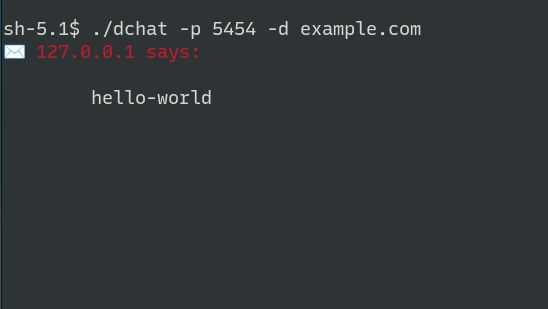
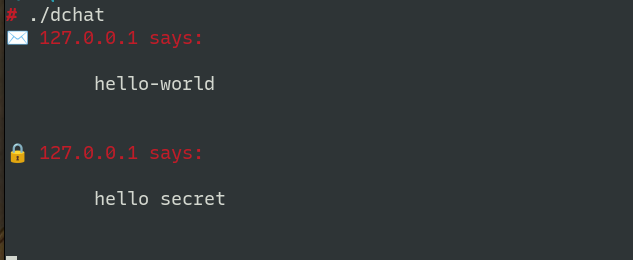
Add support for sending files through txt records. All messages will be xor encrypted

diff --git a/chat/src/txt.rs b/chat/src/txt.rs
@@ -1,0 +1,135 @@
+// This Source Code Form is subject to the terms of the Mozilla Public
+// License, v. 2.0. If a copy of the MPL was not distributed with this
+// file, You can obtain one at https://mozilla.org/MPL/2.0/.
+
+use std::{collections::BTreeMap, path::Path};
+
+use dominion::{DnsHeader, DnsPacket, Flags, Name, ResourceRecord};
+
+use memmap2::Mmap;
+
+const MAX_TXT_SIZE: usize = 255;
+
+#[derive(Debug)]
+pub(crate) struct TxtHandler {
+    files: BTreeMap<String, Mmap>,
+}
+
+impl TxtHandler {
+    pub fn new<I, P>(mapping: I) -> Self
+    where
+        I: Iterator<Item = (String, P)>,
+        P: AsRef<Path>,
+    {
+        use std::fs::File;
+        // TODO: better error handling
+        let files = mapping
+            .map(|(k, p)| {
+                let fd = File::open(p).expect("could not open a file");
+                // SAFETY: Because we copy the bytes from the appropiate part of the file
+                // before we use them a change in the underlying file will not produce UB
+                let v = unsafe { Mmap::map(&fd).expect("could not read the file") };
+                (k, v)
+            })
+            .collect();
+        Self { files }
+    }
+
+    pub fn response<'a>(
+        &self,
+        question: &'a DnsPacket<'a>,
+        filter: &Name<'_>,
+        xor: &Option<crate::Xor>,
+    ) -> DnsPacket<'a> {
+        let id = question.header.id;
+        let name = &question.questions[0].name;
+        if filter.is_subdomain(name) && xor.is_some() {
+            let xor = xor.as_ref().unwrap();
+            let mut labels = name.iter_hierarchy();
+            let label = labels
+                .nth(filter.label_count())
+                .expect("Because it is a subdomain it should have at least one more label");
+
+            let chunk = self.read_chunk(label).map(|l| encrypt(l, xor.key));
+            if let Some(chunk) = chunk {
+                let header = DnsHeader {
+                    id,
+                    flags: flags(),
+                    questions: 1,
+                    answers: 1,
+                    authority: 0,
+                    additional: 0,
+                };
+                DnsPacket {
+                    header,
+                    questions: question.questions.clone(),
+                    answers: vec![answer(name, chunk)],
+                    authority: vec![],
+                    additional: vec![],
+                }
+            } else {
+                super::refused(id)
+            }
+        } else {
+            super::refused(id)
+        }
+    }
+
+    fn read_chunk<'a>(&'a self, key: &str) -> Option<&'a [u8]> {
+        use std::cmp::min;
+        // Key format <fileid>-<position> for example:
+        //     file1-3
+        fn parse_key(key: &str) -> Option<(&str, usize)> {
+            let key_i = key.rsplit_once('-')?;
+            let i = key_i.1.parse().ok()?;
+            Some((key_i.0, i))
+        }
+
+        let (file, i) = parse_key(key)?;
+        let map = self.files.get(file)?;
+        let i = i * MAX_TXT_SIZE / 2;
+        let j = min(map.len(), i + MAX_TXT_SIZE / 2);
+        map.get(i..j)
+    }
+}
+
+fn encrypt(label: &[u8], key: u8) -> String {
+    let out: Vec<u8> = label.iter().map(|b| b ^ key).collect();
+    hex::encode(out)
+}
+
+fn flags() -> Flags {
+    use dominion::*;
+
+    Flags {
+        qr: QueryResponse::Response,
+        opcode: OpCode::Query,
+        aa: AuthoritativeAnswer::Authoritative,
+        tc: TrunCation::NotTruncated,
+        rd: RecursionDesired::NotDesired,
+        ra: RecursionAvailable::NotAvailable,
+        z: Zero::Zero,
+        ad: AuthenticData::NotAuthentic,
+        cd: CheckingDisabled::Disabled,
+        rcode: ResponseCode::NoError,
+    }
+}
+
+fn answer<'a>(name: &Name<'a>, txt: String) -> ResourceRecord<'a> {
+    use dominion::RecordPreamble;
+    let txt_len: u16 = txt
+        .len()
+        .try_into()
+        .expect("TXT message max length is 255 bytes");
+    let preamble = RecordPreamble {
+        name: name.clone(),
+        rrtype: dominion::Type::Txt,
+        class: dominion::Class::IN,
+        ttl: 0,
+        rdlen: 1u16 + txt_len,
+    };
+    ResourceRecord {
+        preamble,
+        data: dominion::RecordData::Txt(txt.into()),
+    }
+}

diff --git a/chat/src/lib.rs b/chat/src/lib.rs
@@ -2,32 +2,41 @@
 // License, v. 2.0. If a copy of the MPL was not distributed with this
 // file, You can obtain one at https://mozilla.org/MPL/2.0/.
 
-#![forbid(unsafe_code)]
 #![warn(rust_2018_idioms, missing_debug_implementations)]
 
 use dominion::{DnsPacket, Name, QType, ServerService};
 use serde::Deserialize;
-use std::net::SocketAddr;
+use std::{collections::BTreeMap, net::SocketAddr};
 
 mod a;
+mod txt;
 
 #[derive(Debug)]
 pub struct Chat<'a> {
     domain: Name<'a>,
     xor: Option<Xor>,
+    files: Option<txt::TxtHandler>,
 }
 
 impl<'a> Chat<'a> {
-    pub fn new(name: Name<'a>, xor: Option<Xor>) -> Self {
-        Chat { domain: name, xor }
+    pub fn new(name: Name<'a>, xor: Option<Xor>, files: Option<BTreeMap<String, String>>) -> Self {
+        let files = files.map(|f| txt::TxtHandler::new(f.into_iter()));
+        Chat {
+            domain: name,
+            files,
+            xor,
+        }
     }
 }
 
 impl ServerService for Chat<'_> {
-    fn run<'a>(&self, client: SocketAddr, question: DnsPacket<'a>) -> Option<DnsPacket<'a>> {
+    fn run<'a>(&self, client: SocketAddr, question: &'a DnsPacket<'a>) -> Option<DnsPacket<'a>> {
         if question.header.questions > 0 {
             match question.questions[0].qtype {
                 QType::A => Some(a::response(client, question, &self.domain, &self.xor)),
+                QType::Txt => {
+                    self.files.as_ref().map(|files| files.response(question, &self.domain, &self.xor))
+                }
                 _ => Some(refused(question.header.id)),
             }
         } else {

diff --git a/dominion/src/lib.rs b/dominion/src/lib.rs
@@ -15,7 +15,7 @@
 //! struct Echo;
 //!
 //! impl ServerService for Echo {
-//!     fn run<'a>(&self, _client: SocketAddr, question: DnsPacket<'a>) -> Option<DnsPacket<'a>> { Some(question) }
+//!     fn run<'a>(&self, _client: SocketAddr, question: &'a DnsPacket<'a>) -> Option<DnsPacket<'a>> { Some(question.clone()) }
 //! }
 //!
 //! Server::default()
@@ -54,12 +54,12 @@ pub use dominion_parser::*;
 /// struct Echo;
 ///
 /// impl ServerService for Echo {
-///     fn run<'a>(&self, _client: SocketAddr, question: DnsPacket<'a>) -> Option<DnsPacket<'a>> { Some(question)}
+///     fn run<'a>(&self, _client: SocketAddr, question: &'a DnsPacket<'a>) -> Option<DnsPacket<'a>> { Some(question.clone()) }
 /// }
 /// ```
 pub trait ServerService {
     /// Take a [DnsPacket] as an question and return the response to be sent to the client.
-    fn run<'a>(&self, client: SocketAddr, question: DnsPacket<'a>) -> Option<DnsPacket<'a>>;
+    fn run<'a>(&self, client: SocketAddr, question: &'a DnsPacket<'a>) -> Option<DnsPacket<'a>>;
 }
 
 #[doc(hidden)]
@@ -140,7 +140,7 @@ impl Server<Runner> {
                 Ok(packet) => packet,
                 Err(_) => continue,
             };
-            if let Some(res) = srv.run(src, packet) {
+            if let Some(res) = srv.run(src, &packet) {
                 let serialized = Vec::<u8>::from(&res);
                 self.socket
                     .as_ref()

diff --git a/chat/src/main.rs b/chat/src/main.rs
@@ -11,6 +11,7 @@ use argh::FromArgs;
 use dominion::{Name, Server};
 use owo_colors::OwoColorize;
 use serde::Deserialize;
+use std::collections::BTreeMap;
 use std::error::Error;
 use std::net::IpAddr;
 
@@ -23,6 +24,7 @@ struct Configuration {
     domain: String,
     threads: usize,
     xor: Option<Xor>,
+    files: Option<BTreeMap<String, String>>,
 }
 
 #[derive(Clone, Debug, FromArgs)]
@@ -50,6 +52,7 @@ struct RawConfig {
     port: Option<u16>,
     domain: Option<String>,
     xor: Option<Xor>,
+    files: Option<BTreeMap<String, String>>,
 }
 
 fn main() {
@@ -66,7 +69,7 @@ fn main() {
         }
     };
 
-    let chat = dominion_chat::Chat::new(name, config.xor);
+    let chat = dominion_chat::Chat::new(name, config.xor, config.files);
 
     let server = match Server::default()
         .threads(config.threads)
@@ -105,6 +108,7 @@ fn configuration() -> Configuration {
             port: None,
             domain: None,
             xor: None,
+            files: None,
         },
     };
 
@@ -119,6 +123,7 @@ fn configuration() -> Configuration {
         domain,
         threads,
         xor: config.xor,
+        files: config.files,
     }
 }
 

diff --git a/parser/benches/parsing_benchmark.rs b/parser/benches/parsing_benchmark.rs
@@ -7,10 +7,10 @@ use dominion_parser::DnsPacket;
 
 use pprof::criterion::{Output, PProfProfiler};
 
-const REQ: &'static [u8; 33] = include_bytes!("../assets/dns_request.bin");
-const RES: &'static [u8; 49] = include_bytes!("../assets/dns_response.bin");
+const REQ: &[u8; 33] = include_bytes!("../assets/dns_request.bin");
+const RES: &[u8; 49] = include_bytes!("../assets/dns_response.bin");
 
-const LONG_REQ: &'static [u8; 270] = include_bytes!("../assets/dns_longreq.bin");
+const LONG_REQ: &[u8; 270] = include_bytes!("../assets/dns_longreq.bin");
 
 pub fn parse_long_request(c: &mut Criterion) {
     c.bench_function("parse_longreq", |b| {

diff --git a/parser/tests/parse_static.rs b/parser/tests/parse_static.rs
@@ -7,10 +7,10 @@ use dominion_parser::header::*;
 use dominion_parser::DnsPacket;
 use std::net::Ipv4Addr;
 
-const REQ: &'static [u8; 33] = include_bytes!("../assets/dns_request.bin");
-const RES: &'static [u8; 49] = include_bytes!("../assets/dns_response.bin");
+const REQ: &[u8; 33] = include_bytes!("../assets/dns_request.bin");
+const RES: &[u8; 49] = include_bytes!("../assets/dns_response.bin");
 
-const LONG_REQ: &'static [u8; 270] = include_bytes!("../assets/dns_longreq.bin");
+const LONG_REQ: &[u8; 270] = include_bytes!("../assets/dns_longreq.bin");
 
 #[test]
 fn test_parse_long_request() {

diff --git a/parser/examples/serialize_static.rs b/parser/examples/serialize_static.rs
@@ -8,8 +8,8 @@ use dominion_parser::body::{RecordData, RecordPreamble, ResourceRecord};
 use dominion_parser::header::{AuthenticData, QueryResponse, RecursionAvailable};
 use dominion_parser::DnsPacket;
 
-const REQ: &'static [u8; 33] = include_bytes!("../assets/dns_request.bin");
-const RES: &'static [u8; 49] = include_bytes!("../assets/dns_response.bin");
+const REQ: &[u8; 33] = include_bytes!("../assets/dns_request.bin");
+const RES: &[u8; 49] = include_bytes!("../assets/dns_response.bin");
 
 fn main() {
     let mut res = DnsPacket::try_from(&REQ[..]).unwrap();

diff --git a/chat/src/a.rs b/chat/src/a.rs
@@ -9,7 +9,7 @@ use dominion::{DnsHeader, DnsPacket, Flags, Name, ResourceRecord};
 
 pub(crate) fn response<'a>(
     client: SocketAddr,
-    question: DnsPacket<'a>,
+    question: &'a DnsPacket<'a>,
     filter: &Name<'_>,
     xor: &Option<crate::Xor>,
 ) -> DnsPacket<'a> {
@@ -44,7 +44,7 @@ pub(crate) fn response<'a>(
     };
     DnsPacket {
         header,
-        questions: question.questions,
+        questions: question.questions.clone(),
         answers: vec![answer(name)],
         authority: vec![],
         additional: vec![],

diff --git a/parser/src/body.rs b/parser/src/body.rs
@@ -361,6 +361,9 @@ impl<'a> RecordData<'a> {
                 exchange.serialize(packet);
             }
             Self::Txt(txt) => {
+                // <character-string> is a single length octet followed by that number of characters.
+                // <character-string> is treated as binary information, and can be up to 256 characters in
+                // length (including the length octet).
                 packet.push(txt.len() as _);
                 packet.extend(txt.as_bytes());
             }

diff --git a/parser/benches/serialize_benchmark.rs b/parser/benches/serialize_benchmark.rs
@@ -7,8 +7,8 @@ use dominion_parser::DnsPacket;
 
 use pprof::criterion::{Output, PProfProfiler};
 
-const REQ: &'static [u8; 33] = include_bytes!("../assets/dns_request.bin");
-const RES: &'static [u8; 49] = include_bytes!("../assets/dns_response.bin");
+const REQ: &[u8; 33] = include_bytes!("../assets/dns_request.bin");
+const RES: &[u8; 49] = include_bytes!("../assets/dns_response.bin");
 
 pub fn serialize_request(c: &mut Criterion) {
     let req = DnsPacket::try_from(&REQ[..]).unwrap();

diff --git a/parser/examples/parse_static.rs b/parser/examples/parse_static.rs
@@ -4,8 +4,8 @@
 
 use dominion_parser::DnsPacket;
 
-const REQ: &'static [u8; 33] = include_bytes!("../assets/dns_request.bin");
-const RES: &'static [u8; 49] = include_bytes!("../assets/dns_response.bin");
+const REQ: &[u8; 33] = include_bytes!("../assets/dns_request.bin");
+const RES: &[u8; 49] = include_bytes!("../assets/dns_response.bin");
 
 fn main() {
     let packet = DnsPacket::try_from(&REQ[..]).unwrap();

diff --git a/dominion/examples/echo_multithreaded.rs b/dominion/examples/echo_multithreaded.rs
@@ -9,8 +9,8 @@ use dominion::{DnsPacket, Server, ServerService};
 struct Echo;
 
 impl ServerService for Echo {
-    fn run<'a>(&self, _: SocketAddr, question: DnsPacket<'a>) -> Option<DnsPacket<'a>> {
-        Some(question)
+    fn run<'a>(&self, _: SocketAddr, question: &'a DnsPacket<'a>) -> Option<DnsPacket<'a>> {
+        Some(question.clone())
     }
 }
 
